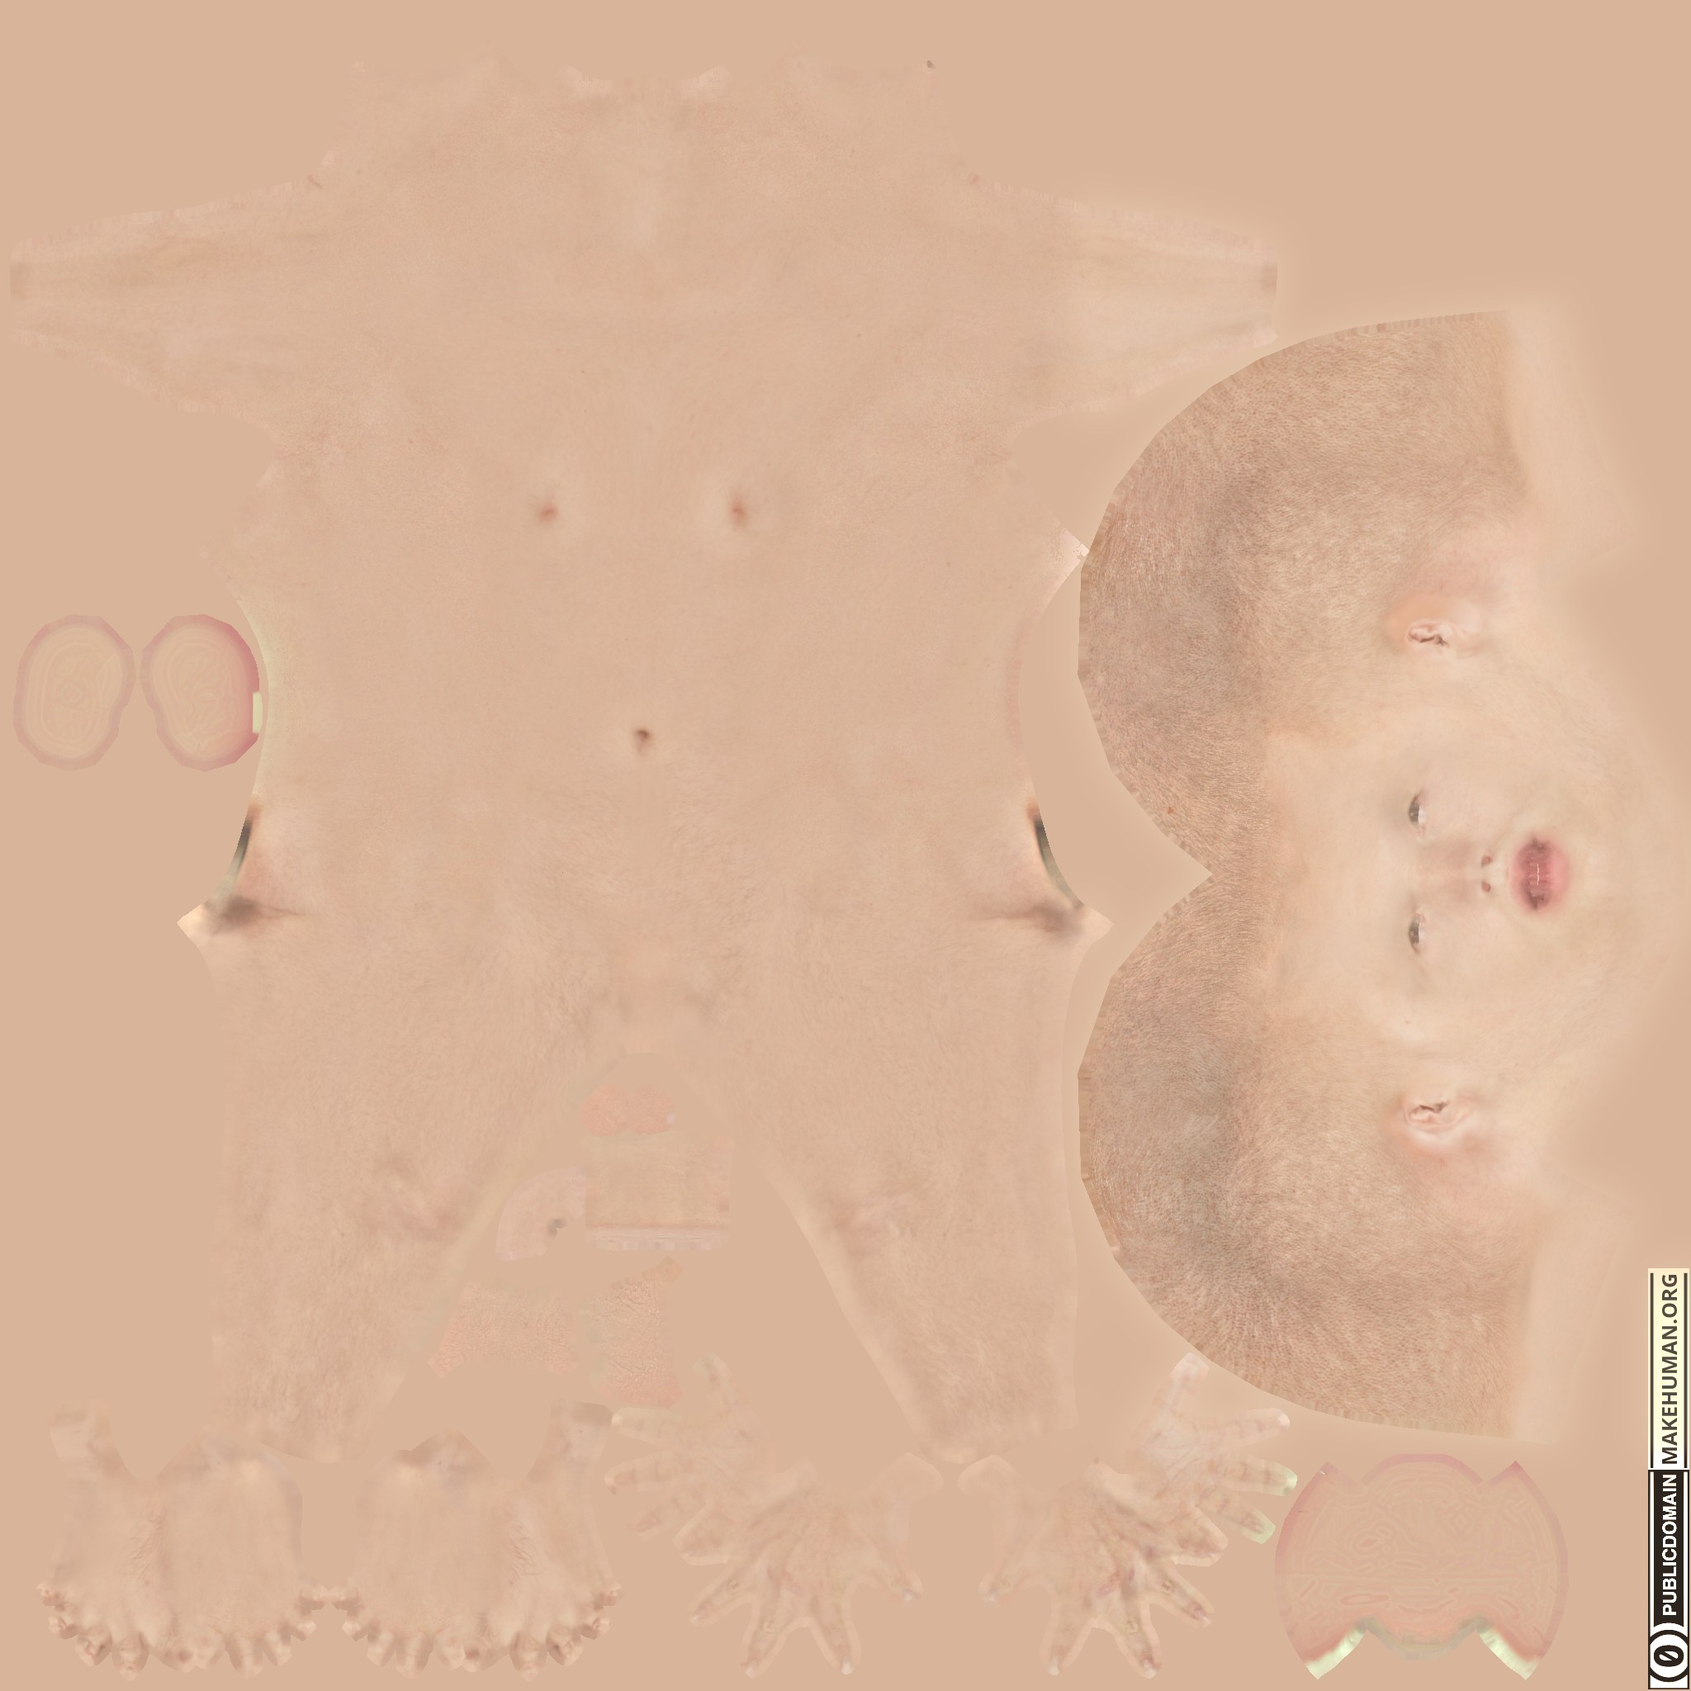
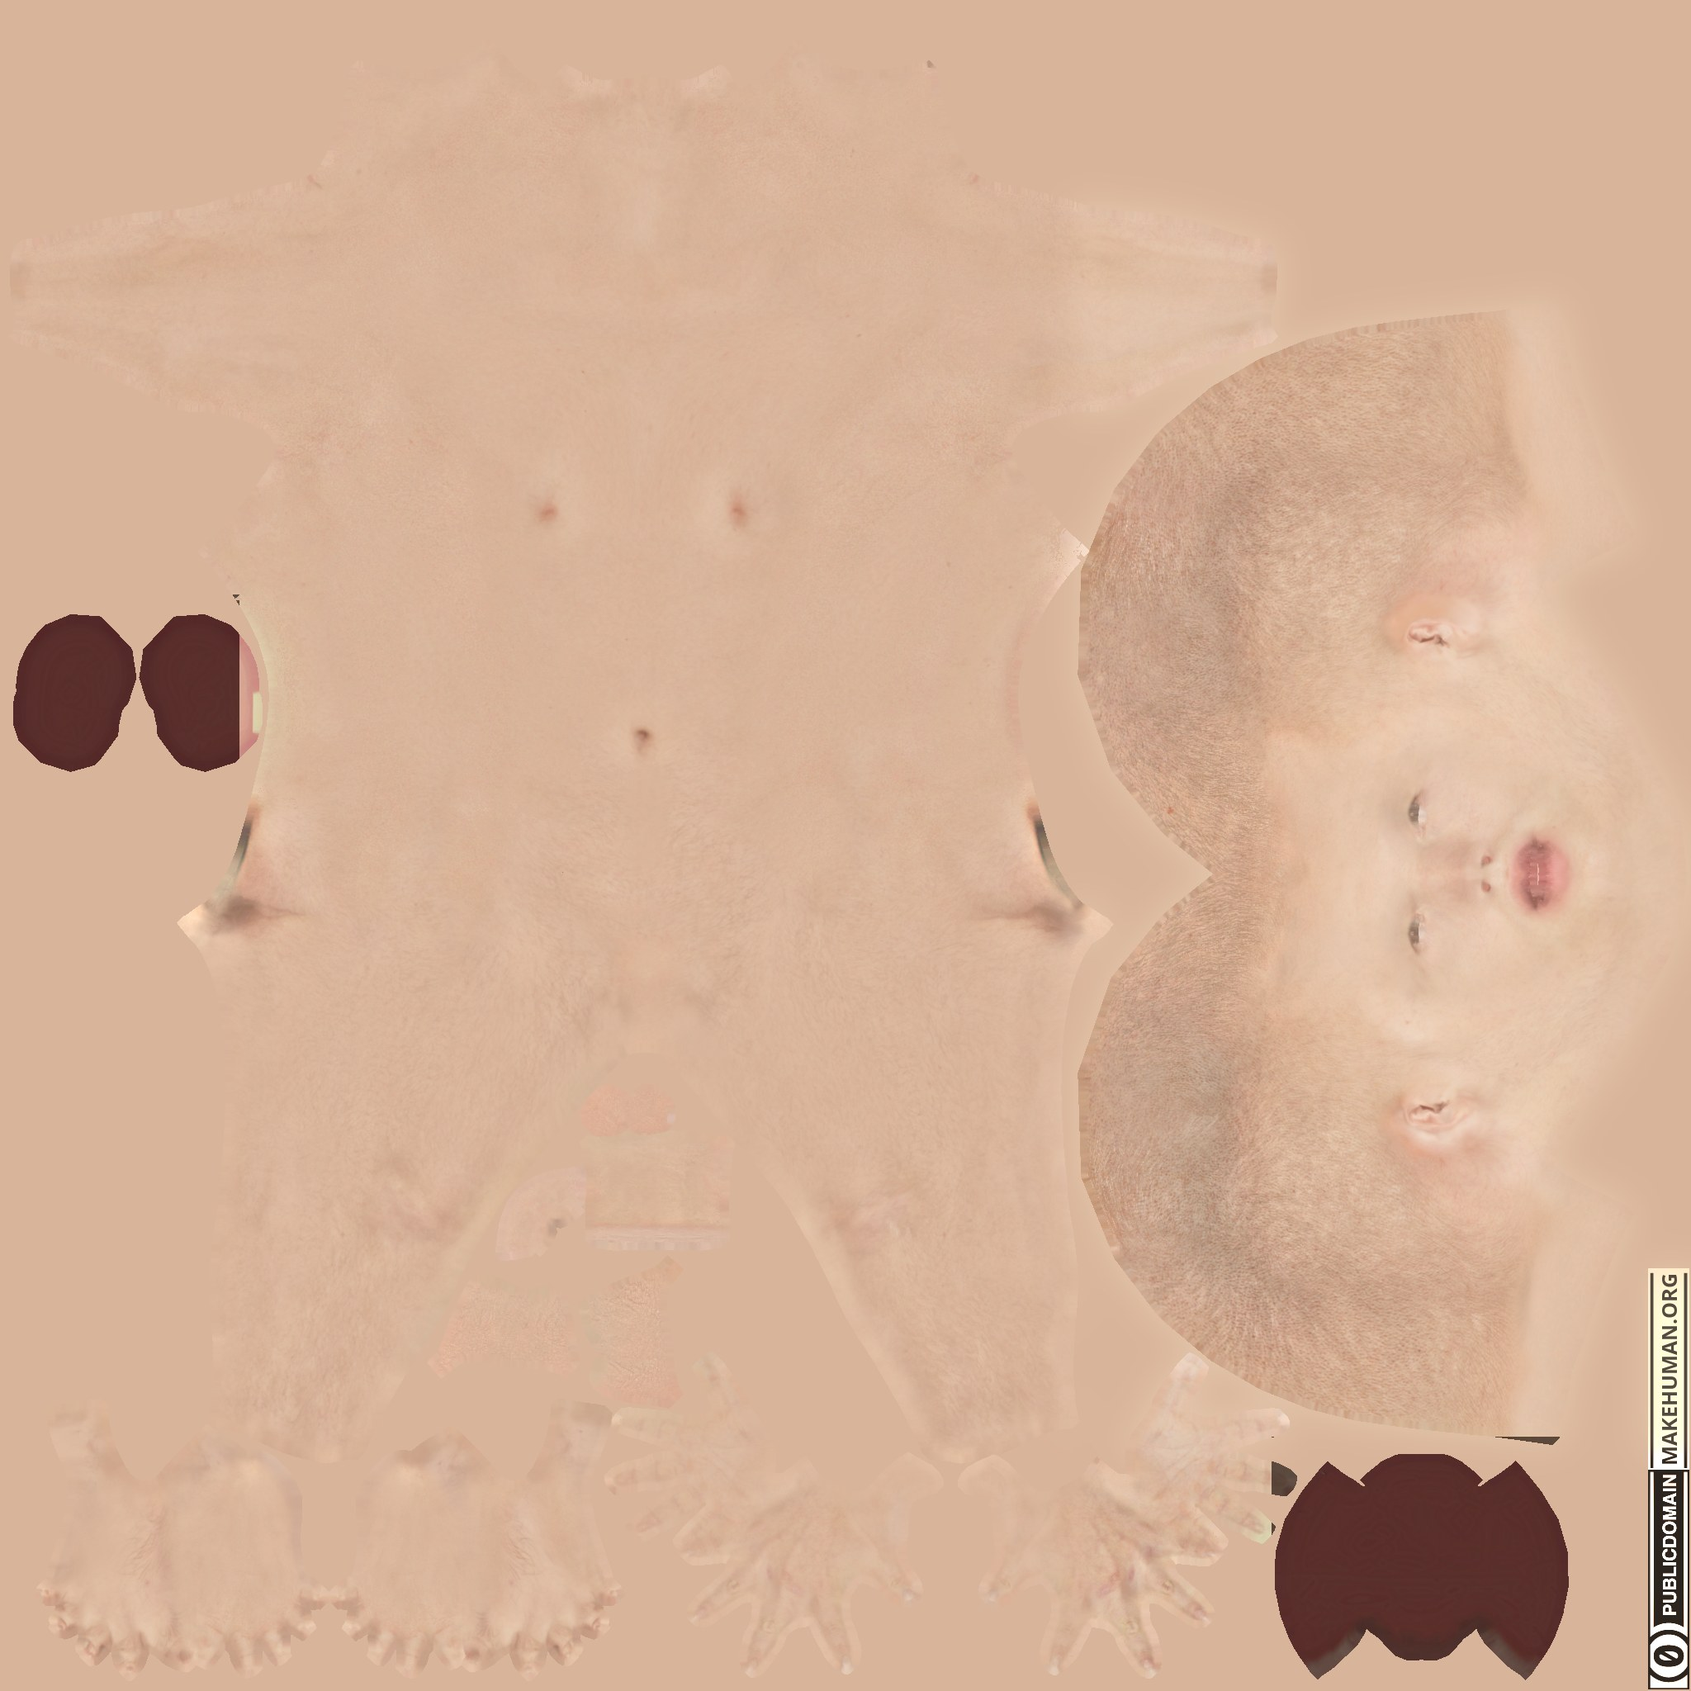
아바타 11차: 청바지 지퍼 덮개 조각 바로잡기, 허리·몸통은 수평으로 넓혀 겹친 천 뚫림 방지, 소매 풍선 없애기, 뒤가 조금 긴 밑단과 접어 박은 단 그늘, 니트 잔결, 상품 사진 가운데 중앙값 색, 바지 위 속옷 밴드 숨기기, 입 안 어둡게, 서비스 워커 v47

Changed region(s): [[0.75, 0.8438, 0.9375, 1.0], [0.0, 0.3438, 0.1562, 0.4688]]

diff --git a/avatar3d.js b/avatar3d.js
@@ -484,7 +484,7 @@ const Avatar3D = (() => {
   // 팔 위치 판정(원래 A자세 좌표): 어깨 관절보다 바깥이면 어깨 관절에서 손목 쪽으로 잰 거리(cm), 아니면 -1
   const CLOTH_GLSL = `
 uniform vec3 uShL, uShR, uAxL, uAxR;
-uniform float uTopOn, uBotOn, uHem, uSleeve, uWaist, uPHem, uHemM, uSleeveM, uWaistM, uPHemM;
+uniform float uTopOn, uBotOn, uHem, uSleeve, uWaist, uPHem, uHemM, uSleeveM, uWaistM, uPHemM, uZc;
 float armParam(vec3 p) {
   vec3 sh = p.x > 0.0 ? uShL : uShR;
   vec3 ax = p.x > 0.0 ? uAxL : uAxR;
@@ -527,11 +527,54 @@ float armParam(vec3 p) {
     try { return await clothLoading; } finally { clothLoading = null; }
   }
 
+  // 니트(저지) 잔결 범프: 가로로 촘촘한 코 무늬(한 번만 만든다)
+  let knitT = null;
+  function knitTex() {
+    if (knitT) return knitT;
+    const N = 128, c = document.createElement('canvas'); c.width = c.height = N;
+    const g = c.getContext('2d'), im = g.createImageData(N, N);
+    for (let y = 0; y < N; y++) for (let x = 0; x < N; x++) {
+      const v = 128 + 60 * Math.sin((x / N) * Math.PI * 2 * 32) * Math.abs(Math.sin((y / N) * Math.PI * 2 * 24)) + (Math.random() - 0.5) * 30;
+      const i = (y * N + x) * 4; im.data[i] = im.data[i + 1] = im.data[i + 2] = Math.max(0, Math.min(255, v)); im.data[i + 3] = 255;
+    }
+    g.putImageData(im, 0, 0);
+    knitT = new THREE.CanvasTexture(c);
+    knitT.wrapS = knitT.wrapT = THREE.RepeatWrapping; knitT.repeat.set(10, 10);
+    return knitT;
+  }
+
+  // 상품 사진(오린 옷 캔버스)의 대표색: 가운데 영역의 불투명 픽셀 중 살색·배경색(밝은 무채색)을 뺀 중앙값
+  function garmentColor(canvas) {
+    if (!canvas?.width) return null;
+    const S = 96, c = document.createElement('canvas'); c.width = c.height = S;
+    const g = c.getContext('2d', { willReadFrequently: true }); g.drawImage(canvas, 0, 0, S, S);
+    const d = g.getImageData(0, 0, S, S).data;
+    // 옷이 있는 범위의 가운데 40%
+    let x0 = S, x1 = 0, y0 = S, y1 = 0;
+    for (let y = 0; y < S; y++) for (let x = 0; x < S; x++) if (d[(y * S + x) * 4 + 3] > 200) { x0 = Math.min(x0, x); x1 = Math.max(x1, x); y0 = Math.min(y0, y); y1 = Math.max(y1, y); }
+    if (x1 <= x0) return null;
+    const cx0 = x0 + (x1 - x0) * 0.3, cx1 = x1 - (x1 - x0) * 0.3, cy0 = y0 + (y1 - y0) * 0.2, cy1 = y1 - (y1 - y0) * 0.35;
+    const R = [], G = [], Bl = [];
+    for (let y = Math.floor(cy0); y < cy1; y++) for (let x = Math.floor(cx0); x < cx1; x++) {
+      const i = (y * S + x) * 4; if (d[i + 3] < 200) continue;
+      const r = d[i], gg = d[i + 1], b = d[i + 2];
+      const skin = r > 95 && gg > 40 && b > 20 && r > gg && r > b && r - Math.min(gg, b) > 15 && Math.abs(r - gg) > 15 && r > 150; // 살색 근처
+      const bg = Math.min(r, gg, b) > 225 && Math.max(r, gg, b) - Math.min(r, gg, b) < 12;
+      if (skin || bg) continue;
+      R.push(r); G.push(gg); Bl.push(b);
+    }
+    if (R.length < 20) return null;
+    const med = (a) => { a.sort((p, q) => p - q); return a[a.length >> 1]; };
+    const h = (v) => Math.round(v).toString(16).padStart(2, '0');
+    return '#' + h(med(R)) + h(med(G)) + h(med(Bl));
+  }
+
   const hexToLin = (hex) => new THREE.Color(...hexRGB(hex || '#808080').map((v) => v / 255)).convertSRGBToLinear();
 
   // 옷 메시 하나 만들기: it(옷 데이터), P(자세 잡은 몸), cmP(원래 자세 몸), ease(정점별 넓힐 cm를 돌려주는 함수)
   // extendTo: 몸판 밑단을 이 높이(원래 자세 y, cm)까지 늘린다(사이즈표 총장이 옷 메시보다 길 때)
-  function clothMesh(it, P, cmP, ease, mat, extendTo) {
+  // radial(x, y, z): 0~1, 1이면 몸 세로축에서 바깥(수평) 방향으로 넓힌다(앞 지퍼 덮개처럼 겹친 천이 서로 뚫고 나오지 않게)
+  function clothMesh(it, P, cmP, ease, mat, extendTo, radial, zc = 0) {
     const PP = proxyPos({ ...it, scale: it.scale }, P);
     const R = proxyPos({ ...it, scale: it.scale }, cmP);
     const n = PP.length / 3, t = it.tris, ref = it.ref;
@@ -567,7 +610,14 @@ float armParam(vec3 p) {
       if (!used[i]) continue;
       const l = Math.hypot(Nn[i * 3], Nn[i * 3 + 1], Nn[i * 3 + 2]) || 1;
       const e = ease(R[i * 3], R[i * 3 + 1], R[i * 3 + 2]);
-      for (let k = 0; k < 3; k++) PP[i * 3 + k] += (Nn[i * 3 + k] / l) * e;
+      const wr = radial ? radial(R[i * 3], R[i * 3 + 1], R[i * 3 + 2]) : 0;
+      let dx = Nn[i * 3] / l, dy = Nn[i * 3 + 1] / l, dz = Nn[i * 3 + 2] / l;
+      if (wr > 0) {
+        const rx = PP[i * 3], rz = PP[i * 3 + 2] - zc, rl = Math.hypot(rx, rz) || 1;
+        dx = dx * (1 - wr) + (rx / rl) * wr; dy *= 1 - wr; dz = dz * (1 - wr) + (rz / rl) * wr;
+        const dl = Math.hypot(dx, dy, dz) || 1; dx /= dl; dy /= dl; dz /= dl;
+      }
+      PP[i * 3] += dx * e; PP[i * 3 + 1] += dy * e; PP[i * 3 + 2] += dz * e;
       if (drop && !isArm[i] && R[i * 3 + 1] < y0) {
         const d = drop * (y0 - R[i * 3 + 1]) / (y0 - yMin);
         PP[i * 3 + 1] -= d; R[i * 3 + 1] -= d;
@@ -587,9 +637,10 @@ float armParam(vec3 p) {
   // 옷 재질: 사이즈표 길이로 자르기(원래 자세 좌표로 판정) + 3D 조명
   function clothMaterial(kind, opts, U) {
     const mat = new THREE.MeshPhysicalMaterial({
-      color: hexToLin(opts.color), side: THREE.DoubleSide, roughness: kind === 'bottom' ? 0.82 : 0.9,
+      color: hexToLin(opts.color).multiplyScalar(kind === 'bottom' ? 1.25 : 1), side: THREE.DoubleSide, roughness: kind === 'bottom' ? 0.9 : 0.9, // 데님 결 지도 평균(약 0.8)만큼 밝혀 상품색에 맞춘다
       sheen: kind === 'bottom' ? 0.15 : 0.6, sheenRoughness: 0.7, sheenColor: hexToLin(opts.color).multiplyScalar(0.6).addScalar(0.15),
       ...(opts.map ? { map: opts.map } : {}), ...(opts.normalMap ? { normalMap: opts.normalMap, normalScale: new THREE.Vector2(0.8, 0.8) } : {}),
+      ...(opts.bump ? { bumpMap: opts.bump, bumpScale: 0.9 } : {}),
     });
     mat.customProgramCacheKey = () => 'cloth-' + kind; // 상의·바지는 자르는 식이 달라 셰이더를 따로
     mat.onBeforeCompile = (sh) => {
@@ -598,10 +649,15 @@ float armParam(vec3 p) {
         .replace('#include <begin_vertex>', '#include <begin_vertex>\nvRest = restPos;');
       sh.fragmentShader = sh.fragmentShader.replace('#include <common>', '#include <common>\nvarying vec3 vRest;\n' + CLOTH_GLSL)
         .replace('#include <clipping_planes_fragment>', kind === 'top' ? `#include <clipping_planes_fragment>
-          { float aS = armParam(vRest); if (aS >= 0.0 ? aS > uSleeve : vRest.y < uHem) discard; }` : `#include <clipping_planes_fragment>
-          if (vRest.y > uWaist || vRest.y < uPHem) discard;`)
+          float hemY = uHem - 1.2 * smoothstep(0.0, 12.0, uZc - vRest.z); // 뒤·옆이 조금 더 길다
+          float aS = armParam(vRest);
+          if (aS >= 0.0 ? aS > uSleeve : vRest.y < hemY) discard;
+          float edgeD = aS >= 0.0 ? uSleeve - aS : vRest.y - hemY;` : `#include <clipping_planes_fragment>
+          if (vRest.y > uWaist || vRest.y < uPHem) discard;
+          float edgeD = min(uWaist - vRest.y, vRest.y - uPHem);`)
         // 안쪽 면(밑단·소매 안으로 보이는 곳)은 어둡게
-        .replace('#include <map_fragment>', '#include <map_fragment>\nif (!gl_FrontFacing) diffuseColor.rgb *= ' + (kind === 'top' ? '0.45' : '0.8') + ';'); // 바지는 앞 지퍼 쪽 겹친 천 사이로 안쪽이 보여 덜 어둡게
+        .replace('#include <map_fragment>', '#include <map_fragment>\nif (!gl_FrontFacing) diffuseColor.rgb *= ' + (kind === 'top' ? '0.45' : '0.8') + ';' // 바지는 앞 지퍼 쪽 겹친 천 사이로 안쪽이 보여 덜 어둡게
+          + '\ndiffuseColor.rgb *= mix(0.88, 1.0, smoothstep(0.4, 1.6, edgeD));'); // 밑단·소매 끝 접어 박은 단(조금 어둡게)
     };
     return mat;
   }
@@ -657,10 +713,14 @@ float armParam(vec3 p) {
       const ease = (x, y, z) => {
         const aS = armParamJS(X.cmP, x, y, z);
         const f = Math.min(1, Math.max(0, (neckY - 2 - y) / 10));
-        return aS >= 0 ? chestE * 0.45 * Math.max(0, 1 - aS / 40) * f : chestE * f;
+        // 소매는 몸통 여유를 거의 받지 않는다(진동에서 6cm 안에 서서히 줄여 0.2cm): 풍선 소매 방지
+        return aS >= 0 ? (chestE * Math.max(0, 1 - aS / 6) + 0.2) * f : chestE * f;
       };
-      const mat = clothMaterial('top', { color: outfit.top.color, map: C.tex[it.name + '_ao.jpg'] }, U);
-      const mesh = clothMesh(it, P, cmP, ease, mat, U.uHem.value);
+      const zcT = jpos(cmP, 'spine03____head')[2];
+      const radialT = (x, y, z) => (armParamJS(X.cmP, x, y, z) >= 0 ? 0 : Math.min(1, Math.max(0, (neckY - 4 - y) / 8)));
+      const mat = clothMaterial('top', { color: outfit.top.color, map: C.tex[it.name + '_ao.jpg'], bump: knitTex() }, U);
+      U.uZc.value = zcT;
+      const mesh = clothMesh(it, P, cmP, ease, mat, U.uHem.value, radialT, zcT);
       U.uHemM.value = mesh.userData.ext.yMin; U.uSleeveM.value = mesh.userData.ext.sMax;
       meshes.push(mesh);
       const sl = Math.min(U.uSleeve.value, U.uSleeveM.value), hem = Math.max(U.uHem.value, U.uHemM.value);
@@ -684,7 +744,8 @@ float armParam(vec3 p) {
         return wE * (1 - blend) + (tE * (1 - tt) + hE * tt) * blend;
       };
       const mat = clothMaterial('bottom', { color: outfit.bottom.color, map: C.tex['jeans_d.jpg'], normalMap: C.tex['jeans_n.jpg'] }, U);
-      const mesh = clothMesh(it, P, cmP, ease, mat);
+      const zcB = jpos(cmP, 'upperleg01.L____head')[2];
+      const mesh = clothMesh(it, P, cmP, ease, mat, null, (x, y) => Math.min(1, Math.max(0, (y - crotchY) / 4)), zcB);
       U.uWaistM.value = mesh.userData.ext.yMax; U.uPHemM.value = mesh.userData.ext.yMin;
       // 앞 가운데 허리선(지퍼 위)이 뒤보다 낮다: 그보다 위로 자르면 바지 안쪽(뒤판 안감)이 비친다
       {
@@ -793,7 +854,7 @@ float armParam(vec3 p) {
     for (const i of data.meta.crotch) if (Math.abs(cmP[i * 3]) < 1) crotchY = Math.max(crotchY, cmP[i * 3 + 1]);
     const briefU = { uTop: { value: hipY + 7.5 }, uBot: { value: crotchY - 7 }, uHalf: { value: GarmentRender.visW(m.hip, 'hip') / 2 + 4 }, uCav: { value: POSE.cav } };
     // 3D 옷을 입혔을 때 옷 밑 몸 숨기기(dress()가 값을 바꾼다): 덮는 정점(aCov)이면서 옷이 남은 자리
-    Object.assign(briefU, { uTopOn: { value: 0 }, uBotOn: { value: 0 }, uHem: { value: -1e3 }, uSleeve: { value: -1 }, uWaist: { value: -1e3 }, uPHem: { value: 1e3 }, uHemM: { value: -1e3 }, uSleeveM: { value: 100 }, uWaistM: { value: 1e3 }, uPHemM: { value: -1e3 }, ...clothArmUniforms(cmP) });
+    Object.assign(briefU, { uTopOn: { value: 0 }, uBotOn: { value: 0 }, uHem: { value: -1e3 }, uSleeve: { value: -1 }, uWaist: { value: -1e3 }, uPHem: { value: 1e3 }, uHemM: { value: -1e3 }, uSleeveM: { value: 100 }, uWaistM: { value: 1e3 }, uPHemM: { value: -1e3 }, uZc: { value: 0 }, ...clothArmUniforms(cmP) });
     body.geometry.setAttribute('aCov', new THREE.BufferAttribute(new Float32Array(data.body.ref.length * 2), 2));
     skinMat.onBeforeCompile = (sh) => {
       Object.assign(sh.uniforms, briefU);
@@ -813,6 +874,7 @@ float armParam(vec3 p) {
             float ax = abs(vRest.x);
             float bot = uBot + 1.6 * (1.0 - clamp(ax / (uHalf * 0.55), 0.0, 1.0)); // 안쪽 허벅지에서 살짝 올라간 다리 트임
             float top = uTop - 0.6 * (1.0 - clamp(ax / uHalf, 0.0, 1.0));          // 앞 가운데가 살짝 낮다
+            if (uBotOn > 0.5) top = min(top, uWaist - 0.8); // 바지를 입으면 속옷 허리 밴드가 바지 위로 보이지 않게
             briefM = smoothstep(bot - e, bot + e, vRest.y) * (1.0 - smoothstep(top - e, top + e, vRest.y)) * (1.0 - step(uHalf, ax));
             vec3 fab = vec3(0.028, 0.032, 0.042);
             float band = smoothstep(top - 3.4 - e, top - 3.4 + e, vRest.y);
@@ -1159,7 +1221,7 @@ float armParam(vec3 p) {
     return out;
   }
 
-  return { load, build, dress, fit, measure, morph, HAND_CURL, POSE, FACE, LIGHT };
+  return { load, build, dress, garmentColor, fit, measure, morph, HAND_CURL, POSE, FACE, LIGHT };
 })();
 
 // 내 체형 탭의 아바타 카드를 3D로 바꿔 그리기(첫 화면을 막지 않게 한가할 때)

diff --git a/wardrobe.js b/wardrobe.js
@@ -312,8 +312,8 @@ async function runOutfit() {
     if (model.is3D && typeof Avatar3D !== 'undefined' && Avatar3D.dress) {
       // 3D 아바타: 옷을 3D 메시로 다시 입혀 바꿔 보여 준다(사이즈 안내 문장은 위 결과 그대로)
       const spec = {};
-      if (top) spec.top = { g: itemRow(top), color: cuts.top?.avgColor || DEFAULT_COLOR.top, stretch: top.stretch };
-      if (bottom) spec.bottom = { g: itemRow(bottom), color: cuts.bottom?.avgColor || DEFAULT_COLOR.bottom, stretch: bottom.stretch };
+      if (top) spec.top = { g: itemRow(top), color: (cuts.top && Avatar3D.garmentColor(cuts.top.texture)) || cuts.top?.avgColor || DEFAULT_COLOR.top, stretch: top.stretch };
+      if (bottom) spec.bottom = { g: itemRow(bottom), color: (cuts.bottom && Avatar3D.garmentColor(cuts.bottom.texture)) || cuts.bottom?.avgColor || DEFAULT_COLOR.bottom, stretch: bottom.stretch };
       const token = (wardrobe.dressToken = (wardrobe.dressToken || 0) + 1);
       Avatar3D.dress(model, spec).then((cv) => {
         if (!cv || token !== wardrobe.dressToken) return;

diff --git a/tryon.js b/tryon.js
@@ -385,7 +385,7 @@ async function dressAvatar3D(photo, opts) {
   if (typeof Avatar3D === 'undefined' || !Avatar3D.dress) return;
   const token = (tryon.dressToken = (tryon.dressToken || 0) + 1);
   try {
-    const item = { g: opts.g, color: opts.texture?.avgColor || opts.color, stretch: opts.stretch };
+    const item = { g: opts.g, color: (opts.texture && Avatar3D.garmentColor(opts.texture.texture)) || opts.texture?.avgColor || opts.color, stretch: opts.stretch }; // 상품 사진 가운데의 옷 색(살·배경 빼고)
     const cv = await Avatar3D.dress(photo, opts.category === 'top' ? { top: item } : { bottom: item });
     if (!cv || token !== tryon.dressToken || tryon.photo !== photo) return;
     const c = document.createElement('canvas');

diff --git a/sw.js b/sw.js
@@ -1,6 +1,6 @@
 // 앱 파일을 캐시해 오프라인에서도 열리게 한다.
 // 파일을 수정했으면 CACHE 버전을 올려야 사용자 기기에 새 버전이 반영된다.
-const CACHE = 'fitcheck-v46';
+const CACHE = 'fitcheck-v47';
 const ASSETS = [
   './',
   'index.html',

diff --git a/tools/build_human.py b/tools/build_human.py
@@ -372,6 +372,11 @@ def even_skin(src, dst):
     # 입술 사이 틈이 검게 벌어져 보이지 않게: 입술 안 어두운 곳을 입술색의 70%까지 올린다
     floor_ = rose * 0.62
     out = out * (1 - lip) + np.maximum(out, floor_) * lip
+    # 입 안 조각(입술 안쪽·잇몸·혀): 피부색으로 펴면 다문 입술 사이가 밝은 줄로 보인다 → 원래 색을 어둡게 되돌린다
+    mouth = np.zeros((H, W), bool)
+    mouth[720:940, 0:290] = True; mouth[1740:, 1540:1990] = True
+    mouth &= m > 0
+    out[mouth] = a[mouth] * 0.45
     Image.fromarray(np.clip(out, 0, 255).astype(np.uint8)).save(os.path.join(OUT, dst), quality=88, optimize=True)
 
 def dark_iris(src, dst, size):
@@ -461,8 +466,9 @@ def cloth_part(name, want):
     keep = []
     for fv in fs:
         u = np.mean([ts[ti][0] for _, ti in fv]); v = np.mean([ts[ti][1] for _, ti in fv])
-        y = np.mean([vs[vi][1] for vi, _ in fv])
-        isPants = v < 0.58 and (u < 0.7 or y < 0)  # 바지 바깥 가장자리는 u가 0.7을 조금 넘는다(긴팔 소매 조각과는 높이로 구분)
+        y = np.mean([vs[vi][1] for vi, _ in fv]); ax = abs(np.mean([vs[vi][0] for vi, _ in fv]))
+        # 바지 지퍼 덮개·바깥 가장자리 조각은 u가 0.7을 넘는다(긴팔 소매 조각과는 위치로 구분: 소매는 몸 바깥·높은 곳)
+        isPants = v < 0.58 and (u < 0.7 or (ax < 2.0 and y < 1.7))
         if (want == 'pants') == isPants: keep.append(fv)
     r, ruv, tris = split(keep, ts)
     return {'scale': sc, 'ref': ref, 'split': r, 'uv': ruv, 'tris': tris, 'cover': sorted(set(dele))}
